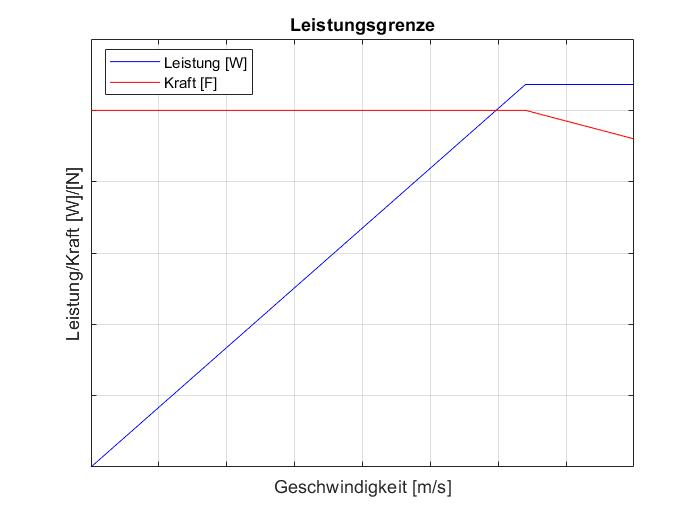
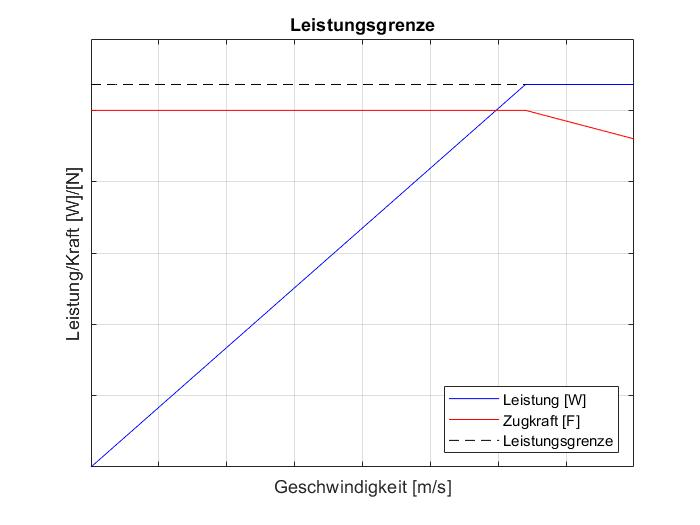
Anpassungen

Changed region(s): [[0.63, 0.7314, 0.9, 0.8533], [0.15, 0.0914, 0.36, 0.1829]]

diff --git a/sections/grundlagen.tex b/sections/grundlagen.tex
@@ -1,11 +1,11 @@
 \section{Grundlagen}\label{sec:Grundlagen}
-In diesem Kapitel wird anfänglich der grundlegende Ablauf des Schleppvorgang beschrieben und die Funktion der beiden Windentypen (Einzug- und Abrollwinde) genauer beschrieben. Weiter sind die für dieses Projekt grundlegenden Anforderungen aufgelistet, wobei eine detaillierte Übersicht im Anhang \ref{appsec:Anforderungen} ersichtlich ist.
+In diesem Kapitel wird der grundlegende Ablauf des Schleppvorgang beschrieben und die Funktion der beiden Windentypen (Einzug- und Abrollwinde) genauer beschrieben. Weiter sind die für dieses Projekt grundlegenden Anforderungen aufgelistet, wobei eine detaillierte Übersicht im Anhang \ref{appsec:Anforderungen} ersichtlich ist.
 
 %für den Bericht grundlegende Informationen beschrieben. Diese werden zum einen in Richtlinien unterteilt,welche hauptsächlich aus den gesetzlichen Bestimmungen bestehen. Zum anderen ist ein mathematischer Teil vorhanden, wobei die Berechnungen mathematische Formeln aufweisen auf welche in den nachfolgenden Kapiteln verwiesen wird. 
 
 
 \subsection{Schleppvorgang}\label{subsec:Schleppvorgang}
-Der Gleitsegelschleppvorgang kann trotz zwei unterschiedlichen Ausführungen (Einzug- und Abrollwinde) mit demselben Prinzip beschreiben. Der Pilot steht startbereit am Boden und ist über auslösbare Verbindungen an ein Seil angemacht. Sobald der Schleppvorgang startet, wird das Seil zwischen Winde und Pilot gestraft bis er eine Kraft in horizontaler Richtung erfährt. Er beginnt zu rennen wobei sich der Schirm über ihm aufrichtet. Sobald der Pilot eine genügend hohe Geschwindigkeit in Horizontalrichtung hat (in Bezug zum Wind), erfährt er eine Geschwindigkeit in Vertikalrichtung und hebt ab. Die dafür notwendige horizontal Geschwindigkeit ist abhängig vom Schirmtyp. Ein typischer Startvorgang ist in nachfolgender Abbildung gut ersichtlich. Es gilt zu erwähnen, dass der ersichtliche Schleppvorgang bei einem Gegenwind von 5m/s abgebildet ist. Bei einer Vorwärtsgeschwindigkeit von 5m/s erreicht somit der Pilot eine Horizontalgeschwindigkeit von 10m/s gegenüber Wind.
+Der Gleitsegelschleppvorgang kann trotz zwei unterschiedlichen Ausführungen (Einzug- und Abrollwinde) mit demselben Prinzip beschreiben. Der Pilot steht startbereit am Boden und ist über auslösbare Verbindungen an ein Seil angemacht. Sobald der Schleppvorgang startet, wird das Seil zwischen Winde und Pilot gestraft bis er eine Kraft in horizontaler Richtung erfährt. Er beginnt zu rennen, wobei sich der Schirm über ihm aufrichtet. Sobald der Pilot eine genügend hohe Geschwindigkeit in Horizontalrichtung hat (in Bezug zum Wind), erfährt er eine Geschwindigkeit in Vertikalrichtung und hebt ab. Die dafür notwendige horizontal Geschwindigkeit ist abhängig vom Schirmtyp. Ein typischer Startvorgang ist in nachfolgender Abbildung \ref{fig:Sicherheitsstart} gut ersichtlich. Es gilt zu erwähnen, dass der ersichtliche Schleppvorgang bei einem Gegenwind von 5m/s abgebildet ist. Bei einer Vorwärtsgeschwindigkeit von 5m/s erreicht somit der Pilot eine Horizontalgeschwindigkeit von 10m/s gegenüber Wind.
 
 \begin{figure}[H]
 	\begin{center}
@@ -15,7 +15,7 @@ Der Gleitsegelschleppvorgang kann trotz zwei unterschiedlichen Ausführungen (Ei
 	\end{center}
 \end{figure}
 
-Es ist gut ersichtlich, dass der Startvorgang in vier Bereiche unterteilt wird. Die erste Phase beinhaltet die Seilstraffung bis zum Zeitpunkt des Abheben des Piloten. Der zweite Bereich umfasst die kritischste Phase, da der Pilot nur eine geringe Distanz zum Boden vorweist und bei einem Trennvorgang schnell reagieren muss. Damit ein unvorhergesehener Trennvorgang vom Piloten kontrolliert werden kann, darf die Zugkraft am Seil 30\% der Nennzugkraft nicht überschreiten. Sobald eine Höhe von 20m erreicht wurde, wird der Zug des Seils auf 70\% der eingestellten Nennzugkraft erhöht. Ab einer Höhe von 50m kann auf 100\% erhöht werden wodurch der Pilot mit einem Winkel (gegenüber Grund) von rund $22^\circ$ steigt. Diese Phase hält solange an, bis der Pilot die gewünschte Höhe erreicht hat oder mangels Seillänge der Vorgang beendet werden muss. Die Zugkraft wird erneut reduziert, so dass der Zug am Piloten abnimmt und der Schirm sich wieder über den Piloten neigt. Bei einer Zugkraft von wiederum 30\% der Nennzugkraft trennt sich nach Zeichenabsprache mit dem Windenführer der Pilot vom Seil. Diese Flugkurve mit den entsprechenden Steigwinkeln des Piloten gegenüber Grund ($\beta$) und dem Winkel des Seils ($\gamma$) ist in nachfolgender Abbildung \ref{fig:HoehenverlaufSchlepp} ersichtlich. Hier wird anders als bei der vorherigen Grafik der Pilot von rechts nach links gezogen.
+In Abbildung \ref{fig:Sicherheitsstart} ist gut ersichtlich, dass der Startvorgang in vier Bereiche unterteilt wird. Die erste Phase beinhaltet die Seilstraffung bis zum Zeitpunkt des Abheben des Piloten. Der zweite Bereich umfasst die kritischste Phase, da der Pilot nur eine geringe Distanz zum Boden vorweist und bei einem Trennvorgang schnell reagieren muss. Damit ein unvorhergesehener Trennvorgang vom Piloten kontrolliert werden kann, darf die Zugkraft am Seil 30\% der Nennzugkraft nicht überschreiten. Sobald eine Höhe von 20m erreicht wurde, wird der Zug des Seils auf 70\% der eingestellten Nennzugkraft erhöht. Ab einer Höhe von 50m kann auf 100\% erhöht werden wodurch der Pilot mit einem Winkel (gegenüber Grund) von rund $22^\circ$ steigt. Diese Phase hält solange an, bis der Pilot die gewünschte Höhe erreicht hat oder mangels Seillänge der Vorgang beendet werden muss. Die Zugkraft wird erneut reduziert, so dass der Zug am Piloten abnimmt und der Schirm sich wieder über den Piloten neigt. Bei einer Zugkraft von wiederum 30\% der Nennzugkraft trennt sich nach Zeichenabsprache mit dem Windenführer der Pilot vom Seil. Diese Flugkurve mit den entsprechenden Steigwinkeln des Piloten gegenüber Grund ($\beta$) und dem Winkel des Seils ($\gamma$) ist in nachfolgender Abbildung \ref{fig:HoehenverlaufSchlepp} ersichtlich. Hier wird anders als bei der Abbildung \ref{fig:Sicherheitsstart} der Pilot von rechts nach links gezogen.
 
 
 \begin{figure}[H]
@@ -41,8 +41,8 @@ Die gesetzlichen Bestimmungen für die gesamte Seilwinde wurden bereits im Pflic
 
 Durch die elektrische Versorgung des Motors, unterliegt das Projekt der Norm der IEC (International Electrotechnical Commission). Damit die Richtlinien möglichst tief gehalten werden können, fiel der Entschied auf den Kleinspannungsbereich (Spannungsbereich \RM{1} nach IEC 60449), was einer Spannung $U_{DC}<120V_{DC}$ oder $U_{AC}<50V_{AC}$ entspricht. Dies bringt den Vorteil mit sich, dass keine für den Mensch gefährlichen Spannungen auftreten können, was geringere Vorschriften an Isolation, Berührungsschutz und Leitungsführung mit sich bringt.
 Die Anforderungen an den Betrieb der Winde gestalten sich durch nachfolgende Parameter. Die Zugkraft der Seilwinde (respektive des Seils) muss eine minimale Zugkraft von 600N erreichen und darf beim Einzelschlepp den Wert von $ 1000N $ nicht überschreiten. Werden zwei Personen gleichzeitig geschleppt (auch Doppelschlepp genannt), darf diese auf maximal $ 1300N $ erhöht werden. Die Zugkraft muss dem Windenführer stets bekannt sein und wird durch eine Kraftanzeige an einem Display erreicht.
-Weiter darf während des Schleppvorgangs eine maximale Welligkeit von $\pm 25N$ auftreten. Das bedeutet, dass ein Oszillierender Einzug mit der genannten Kraftamplitude erlaubt ist. Wird der Winde ein Drehmomentsollwert vorgegeben, so darf diese nicht mehr als $\pm 100N$ davon abweichen. Das bedeutet bei maximaler Zugkraft (im Einzelschlepp) dürfen Werte zwischen $ 900N $ und $ 1100N $ auftreten. Aus Sicherheitsgründen wird die maximale Einzugsgeschwindigkeit begrenzt. Da bei Nullwind eine Einzugsgeschwindigkeit von 10m/s für optimales Steigen sorgt und evt. leichte Rückenwinde während dem Schleppvorgang auftreten können, wurde die Geschwindigkeit des Seil auf maximal $ 12m/s $ gelegt.
+Weiter darf während des Schleppvorgangs eine maximale Welligkeit von $\pm 25N$ auftreten. Das bedeutet, dass ein Oszillierender Einzug mit der genannten Kraftamplitude erlaubt ist. Wird der Winde ein Drehmomentsollwert vorgegeben, so darf diese nicht mehr als $\pm 100N$ davon abweichen. Das bedeutet, bei maximaler Zugkraft (im Einzelschlepp) dürfen Werte zwischen $ 900N $ und $ 1100N $ auftreten. Aus Sicherheitsgründen wird die maximale Einzugsgeschwindigkeit begrenzt. Da bei Nullwind eine Einzugsgeschwindigkeit von 10m/s für optimales Steigen sorgt und evt. leichte Rückenwinde während dem Schleppvorgang auftreten können, wurde die Geschwindigkeit des Seil auf maximal $ 12m/s $ gelegt.
 Zur Sicherheit des Piloten, muss ein Schleppvorgang jederzeit abgebrochen werden können. Dies kann einerseits durch Leerlauf des Motors oder im schlimmsten Fall durch einen Kappvorgang des Seils erreicht werden. Neben der Kappvorrichtung müssen auch Vorseil, Schleppseil, Verbindungsteile und Reparaturstellen eine minimale Reissfestigkeit von > 4000N erreichen, so wie Sollbruchstellen mit einer Bruchlast von min. 1500N im Soloschlepp und min. 2000N im Doppelschlepp.
 
 
-Da der Motor primär von Batterien gespiessen wird und diese eine begrenzte Kapazität vorweisen, wurde ein batteriebetriebener Schleppvorgang von minimal fünf Startvorgänge definiert. Ein weiterer Betrieb wird durch einen Hilfsgenerator ermöglicht, welcher lediglich zur Unterstützung der Batterie dient und somit nicht die gesamte Leistung übernimmt. Die Batterien müssen zudem sowohl gegen Tiefen- als auch gegen Überladung geschützt werden.
+Da der Motor primär von Batterien gespiesen wird und diese eine begrenzte Kapazität vorweisen, wurde ein batteriebetriebener Schleppvorgang von minimal fünf Startvorgänge definiert. Ein weiterer Betrieb wird durch einen Hilfsgenerator ermöglicht, welcher lediglich zur Unterstützung der Batterie dient und somit nicht die gesamte Leistung übernimmt. Die Batterien müssen zudem sowohl gegen Tiefen- als auch gegen Überladung geschützt werden.

diff --git a/sections/validierung/Versuchsaufbau.tex b/sections/validierung/Versuchsaufbau.tex
@@ -21,7 +21,7 @@ Folgende Messgrössen sind in den Versuchen gemessen worden:
 	\item Die \textbf{Controller-Temperatur} wurde ebenfalls mit dem Computer und der mitgelieferten Software ausgewertet.
 \end{itemize}
 
-Wie auf dem Schema in Abbildung \ref{fig:Schema} ersichtlich, erfolgt die Stromversorgung des BLDC Motors über Variac, Transformatoren und Gleichrichter. Dieser \glqq komplizierte \grqq Aufbau war notwendig, da keine Stromquelle gefunden werden konnte, welche genügend Leistung (im Vergleich zur Nennleistung des BLDC) brachte. Da der Brushless DC Motor für den Betrieb eine konstante Spannung von 96V und unter Volllast ($\approx$15kW) Ströme bis über 160A benötigt, musste ein Aufbau wie im Schema ersichtlich gewählt werden. Dabei erfolgt die Energieversorgung durch das 400V-Stromnetz. Mithilfe des Variacs, welcher mit einer CEE-63A-Steckdose am Netz angeschlossen war, liess sich die Spannung im Zwischenstromkreis regeln. Der Variac ist für eine Ausgangsspannung zwischen 0-290V und einen maximalen Strom von 50A ausgelegt. Damit der BLDC-Motor seine Betriebsspannung von lediglich 96V und Ströme von deutlich über 100A erhält, wurde ein Transformator mit einem 1:3 Übersetzungsverhältnis nachgeschaltet. Dadurch konnte eine dreimal höhere Spannung am Variac eingestellt werden, wodurch sich der Strom um denselben Faktor verringert. Der Anschluss des Transformator erfolgte primärseitig und sekundärseitig in Dreieckschaltung und hat einen sekundären Maximalstrom von $95A_{AC}$ bei $127V_{AC}$. Die Gleichrichtung erfolgt mit einer B6-Brücke, welche für das Projekt aufgebaut wurde. Der Aufbau ist in Abbildung \ref{fig:B6} ersichtlich.
+Wie auf dem Schema in Abbildung \ref{fig:Schema} ersichtlich, erfolgt die Stromversorgung des BLDC Motors über Variac, Transformatoren und Gleichrichter. Dieser \glqq komplizierte \grqq Aufbau war notwendig, da keine Stromquelle gefunden werden konnte, welche genügend Leistung (im Vergleich zur Nennleistung des BLDC) brachte. Da der Brushless-DC-Motor für den Betrieb eine konstante Spannung von 96V und unter Volllast ($\approx$15kW) Ströme bis über 160A benötigt, musste ein Aufbau wie im Schema ersichtlich gewählt werden. Dabei erfolgt die Energieversorgung durch das 400V-Stromnetz. Mithilfe des Variacs, welcher mit einer CEE-63A-Steckdose am Netz angeschlossen war, liess sich die Spannung im Zwischenstromkreis regeln. Der Variac ist für eine Ausgangsspannung zwischen 0-290V und einen maximalen Strom von 50A ausgelegt. Damit der BLDC-Motor seine Betriebsspannung von lediglich 96V und Ströme von deutlich über 100A erhält, wurde ein Transformator mit einem 1:3 Übersetzungsverhältnis nachgeschaltet. Dadurch konnte eine dreimal höhere Spannung am Variac eingestellt werden, wodurch sich der Strom um denselben Faktor verringert. Der Anschluss des Transformator erfolgte primärseitig und sekundärseitig in Dreieckschaltung und hat einen sekundären Maximalstrom von $95A_{AC}$ bei $127V_{AC}$. Die Gleichrichtung erfolgt mit einer B6-Brücke, welche für das Projekt aufgebaut wurde. Der Aufbau ist in Abbildung \ref{fig:B6} ersichtlich.
 
 \begin{figure}[H]
 	\centering
@@ -65,16 +65,32 @@ $ I_{d} $\quad\quad 	Zwischenkreisstrom (DC-Seite)      \\
 Da der B6-Gleichrichter bei hoher Belastung einen grossen Stromrippel generieren, sind parallel zur Ansteuerung zwei Elektrolytkondensatoren (Elkos) eingebaut. Diese dienen zur Glättung der Gleichstromversorgung bei hohen Belastungen. Zusätzlich wurde im Zwischenstromkreis ein DC-Relais eingebaut, welches von der Ansteuerung selbst geschaltet werden kann. Tritt ein Fehlerfall auf, kann der Controller mithilfe des DC-Relais die Stromversorgung unterbrechen. Die Ansteuerung besitzt zudem eine Schmelzsicherung direkt nach der Einspeisung des +Pols.\\
 
 Der Drehmoment-Sollwert für die Ansteuerung wird mit einem Arduino-Controller erzeugt. Dabei wird der PWM-Ausgang mithilfe eines RC-Tiefpasses in ein Spannungssignal gewandelt. Zudem wird das Signal des Hallsensors über ein Schmitt-Trigger auf den Mikrocontroller geführt, damit die Geschwindigkeit geregelt werden kann.\\
-Der ASM-Motor, welcher die Last simulierte, hat ebenfalls eine Leistung von 11kW und ist starr mittels einer Kupplung mit dem BLDC-Motor gekopplet. Die Anordnung ist in Abbildung \ref{fig:MotorenLueftung} links dargestellt. Damit diese zwei Maschinen überhaupt miteinander gekoppelt werden konnten, ist zuerst die Welle des BLDC Motors (links) auf das Niveau der ASM (rechts) angehoben worden. Weiter waren einige Anpassungen an der Kupplung (Verbindung zwischen den Motorenwellen) getätigt werden. Da der DC-Motor über eine Welle mit Zollmass verfügt, musste die Öffnung einer Kupplung ausgebohrt worden. Weiter verfügt die ASM über keine Nut, weshalb die Befestigung der Kupplung mit zwei M8-Schrauben, welche auf die Motorwelle drücken, erfolgt. Diese zwei Gewinde sind ebenfalls vorgängig gebohrt werden. Für einen ausreichenden Berührungsschutz sorgt eine Plexiglasscheibe über der mechanischen Verbindung.
+Der ASM-Motor, welcher die Last simulierte, hat ebenfalls eine Leistung von 11kW und ist starr mittels einer Kupplung mit dem BLDC-Motor gekopplet. Die Anordnung ist in Abbildung \ref{fig:Motorenaufbau} dargestellt. Damit diese zwei Maschinen überhaupt miteinander gekoppelt werden konnten, ist zuerst die Welle des BLDC-Motors (links) auf das Niveau der ASM (rechts) angehoben worden. Weiter waren einige Anpassungen an der Kupplung (Verbindung zwischen den Motorenwellen) getätigt werden. Da der BLDC-Motor über eine Welle mit Zollmass verfügt, musste die Öffnung einer Kupplung ausgebohrt worden. Weiter verfügt die ASM über keine Nut, weshalb die Befestigung der Kupplung mit zwei M8-Schrauben, welche auf die Motorwelle drücken, erfolgt. Diese zwei Gewinde sind ebenfalls vorgängig gebohrt werden. Für einen ausreichenden Berührungsschutz sorgt eine Plexiglasscheibe über der mechanischen Verbindung.
 
-
-Leider verfügt der für die Winde gekaufte Motor nur über eine schlechte Eigenkühlung, wodurch zusätzliche Ventilatoren notwendig sind. Bei den Temperaturtests \ref{subsec:Temperatur} sind zur Kühlung externe 110mm Ventilatoren verwendet worden. In Abbildung \ref{fig:MotorenLueftung} (Grafik rechts), ist die Anordnung seitlich und hinter dem Motor zu sehen.
 \begin{figure}[H]
-	\begin{center}
-		\includegraphics[width=\linewidth]{Versuchsaufbau/MotorLueft_neu.png}
-		\caption[Motoren Aufbau und Motorenlüftung]{Motoren Aufbau (links) und Motorenlüftung (rechts)}
-		\label{fig:MotorenLueftung}
-	\end{center}
+	\centering
+	\includegraphics[width=100mm]{Versuchsaufbau/Motorenaufbau.jpg}
+	\caption{Koppung des BLDC-Motors mit der ASM-Maschine}
+	\label{fig:Motorenaufbau}
 \end{figure}
+
+Leider verfügt der für die Winde gekaufte Motor nur über eine schlechte Eigenkühlung, wodurch zusätzliche Ventilatoren notwendig sind. Bei den Temperaturtests \ref{subsec:Temperatur} sind zur Kühlung externe 110mm Ventilatoren verwendet worden. In Abbildung \ref{fig:Motorenlueftung}, ist die Anordnung seitlich und hinter dem Motor zu sehen.
+
+
+
+\begin{figure}[H]
+	\centering
+	\includegraphics[width=100mm]{Versuchsaufbau/Motorenlueftung.png}
+	\caption{BLDC-Motor mit zusätzlicher Lüftung}
+	\label{fig:Motorenlueftung}
+\end{figure}
+
+%\begin{figure}[H]
+%	\begin{center}
+%		\includegraphics[width=\linewidth]{Versuchsaufbau/MotorLueft_neu.png}
+%		\caption[Motoren Aufbau und Motorenlüftung]{Motoren Aufbau (links) und Motorenlüftung (rechts)}
+%		\label{fig:MotorenLueftung}
+%	\end{center}
+%\end{figure}
 
 Damit überhaupt Leistungsversuche möglich sind, muss neben dem Gleichstrommotor auch die ASM angesteuert werden. Hierfür dient ein Frequenzumrichter mit integrierter Netzschaltung welche ebenfalls ans 400V-Stromnetz angeschlossen ist. Während der BLDC-Motor eine Drehmoment-Ansteuerung verfügt wurde der ASM-Motor über die Drehzahl geregelt, welche wiederum von der Frequenz abhängig ist. Die Frequenz der ASM lässt sich über ein Potentiometer regeln.

diff --git a/sections/einleitung.tex b/sections/einleitung.tex
@@ -1,9 +1,9 @@
 \section{Einleitung}
-Vor über 50 Jahren stürzten Waghalsige mit den ersten Gleitschirmen den Hang hinunter. Die Technologie machte etliche Fortschritte, doch musste stets an einem Berghang gestartet werden. Obwohl die Schweiz über hohe Berge verfügt und dementsprechend viele Gleitschirmpiloten hat, gibt es gerade im nördlichen Teil der Schweiz, aufgrund niedriger und bewaldeter Hügel, praktisch keine Startmöglichkeiten. Um dem entgegenzuwirken, wurden sogenannte Abroll- und Einzugswinden entwickelt, welche einen Start in flachem Gelände ermöglichen. Da diese Technik bereits länger existiert, und die meisten Varianten auf einer Lösung mit Verbrennungsmotoren beruht, gibt es kaum elektrisch betriebene Winden. Dank des technischen Fortschritts von Akkumulatoren sind in praktisch jedem Bereich elektrische Anwendungen möglich. Eine Schleppwinde mit Elektromotor und elektrischer Energieversorgung hat diverse Vorteile wie beispielsweise ein geräuscharmer Betrieb, keine CO$_{2}$ Emissionen, einen hohen Wirkungsgrad und eine bidirektionalen Anwendung. Letzterer Punkt ermöglicht den Betrieb so wohl in Vorwärtsrichtung (als Motor) als auch in Rückwärtsrichtung (als Generator). Dies erlaubt, für den Abrollwinden- und Einzugswindenbetrieb die selbe Winde zu verwenden, was bis zum jetzigen Zeitpunkt absolut neuartig ist. 
+Vor über 50 Jahren stürzten Waghalsige mit den ersten Gleitschirmen den Hang hinunter. Die Technologie machte etliche Fortschritte, doch musste stets an einem Berghang gestartet werden. Obwohl die Schweiz über hohe Berge verfügt und dementsprechend viele Gleitschirmpiloten hat, gibt es gerade im nördlichen Teil der Schweiz, aufgrund niedriger und bewaldeter Hügel, praktisch keine Startmöglichkeiten. Um dem entgegenzuwirken, wurden sogenannte Abroll- und Einzugswinden entwickelt, welche einen Start in flachem Gelände ermöglichen. Da diese Technik bereits länger existiert, und die meisten Varianten auf einer Lösung mit Verbrennungsmotoren beruht, gibt es kaum elektrisch betriebene Winden. Dank des technischen Fortschritts von Akkumulatoren sind in praktisch jedem Bereich elektrische Anwendungen möglich. Eine Schleppwinde mit Elektromotor und elektrischer Energieversorgung hat diverse Vorteile wie beispielsweise ein geräuscharmer Betrieb, keine CO$_{2}$ Emissionen, einen hohen Wirkungsgrad und eine bidirektionalen Anwendung. Letzterer Punkt ermöglicht den Betrieb sowohl in Vorwärtsrichtung (als Motor) als auch in Rückwärtsrichtung (als Generator). Dies erlaubt, für den Abrollwinden- und Einzugswindenbetrieb dieselbe Winde zu verwenden, was bis zum jetzigen Zeitpunkt absolut neuartig ist. 
 Ziel der vorliegenden Arbeit ist es, das Gleitschirmfliegen im Flachland zu revolutionieren und dabei die Umwelt nicht ausser Acht zu lassen. Genau für diesen Zweck wird in diesem Projekt eine ebensolche elektrische Winde entwickelt und in Form eines Prototypen realisiert und getestet.
 
 Damit am Ende des Projektes ein reibungsloser Windenbetrieb garantiert werden kann, sind Anforderungen an das gesamte System notwendig. Da der Windenschlepp in der Schweiz nicht sehr verbreitet ist, sind verglichen mit Deutschland praktisch keine Vorschriften vorhanden. Aus diesem Grund sind die Anforderungen unserer Winde an die Richtlinien des DHV (Deutscher Hängegleiterverband) angelehnt.
-Damit der Pilot möglichst sicher in die Luft gelangt, ist neben einer maximalen Einzugsgeschwindigkeit des Seils, auch eine minimale und maximale Zugkraft am Seil notwendig, welche abhängig vom Körpergewicht des Piloten vorgängig eingestellt werden kann. Da der Schleppvorgang dynamisch ist und sich die Zugkraft am Seil je nach Luftschicht ändern kann, ist eine Regelung der Zugkraft zwingend notwendig. Weiter gilt es die Festigkeit aller mechanischen Komponenten zu beachten und Elemente wie Kappvorrichtung und Sollbruchstellen zu berücksichtigen. Die gesamte Energieversorgung des Systems erfolgt elektrisch und beruht primär auf Batteriebetrieb. Sollte der Energiespeicher erschöpft sein, dient ein externer Generator als Lade- und Stützeinheit der Batterie und übernimmt lediglich einen Teil der notwendigen Leistung.
+Damit der Pilot möglichst sicher in die Luft gelangt, ist neben einer maximalen Einzugsgeschwindigkeit des Seils auch eine minimale und maximale Zugkraft am Seil notwendig, welche abhängig vom Körpergewicht des Piloten vorgängig eingestellt werden kann. Da der Schleppvorgang dynamisch ist und sich die Zugkraft am Seil je nach Luftschicht ändern kann, ist eine Regelung der Zugkraft zwingend notwendig. Weiter gilt es die Festigkeit aller mechanischen Komponenten zu beachten und Elemente wie Kappvorrichtung und Sollbruchstellen zu berücksichtigen. Die gesamte Energieversorgung des Systems erfolgt elektrisch und beruht primär auf Batteriebetrieb. Sollte der Energiespeicher erschöpft sein, dient ein externer Generator als Lade- und Stützeinheit der Batterie und übernimmt lediglich einen Teil der notwendigen Leistung.
 
 In diesem Projekt wurden zuerst die rechtlichen Rahmenbedingungen abgeklärt, damit darauf basierend die Anforderungen an das Produkt eruiert werden konnten. Ein Pflichtenheft \cite{TechPflichtenheft}, welches die Anforderungen (Anhang \ref{appsec:Anforderungen}) an das Produkt definiert, wurde in enger Zusammenarbeit mit dem Projektteam des mechanischen Teils erarbeitet. Nachdem die Anforderungen an den Motor spezifiziert werden konnten, wurde dieser beschafft und auf \glqq Herz und Niere\grqq\space getestet.
 

diff --git a/sections/validierung/Fazit.tex b/sections/validierung/Fazit.tex
@@ -12,4 +12,4 @@ Bei den Spannungsversuche hat sich gezeigt, dass die Versorgungsspannung in eine
 Diese Leistungsgrenze ist abhängig von der Energieversorgung. Da diese mit Batterien realisiert wird, ist der Innenwiderstand der Batterie ein wichtiger Faktor. Zudem hat der Ladezustand einen Einfluss darauf, da die Spannung der Batterie beim entladen dieser abnimmt.\\
 Bei einer stabilen Spannungsquelle war anhand des Drehmoment/Leistungs-Versuch ersichtlich, dass der Motor die erforderliche Leistung erbringen kann und dass die Kraftregelung der Ansteuerung genügend präzise für die geplante Anwendung ist. Einzig im Leerlauf bei geringen Drehzahlen ist die Geschwindigkeitsregelung schwierig.\\
 Die Temperatur-Versuche haben zudem aufgezeigt, dass sowohl der Motor als auch die Ansteuerung gekühlt werden müssen, da diese sonst überhitzen. Vor allem im Abrollbetrieb, wenn ein höherer Intervall erreicht werden kann, muss der Motor gut gekühlt werden.\\
-Anhand der Versuche konnte bewiesen werden, dass der Motor alle Anforderungen für den Einzugsbetrieb erfüllt. Die effektive maximale Leistung hängt jedoch von der Energieversorgung ab.
+Anhand der Versuche konnte bewiesen werden, dass der Motor alle Anforderungen für den Einzugsbetrieb erfüllt. Die effektive maximale Leistung hängt jedoch von der Energieversorgung ab. Da diese wiederum vom Innenwiderstand, Batterietyp und dem Ladezustand abhängt, kann eine definitive Aussage über die max. Leistung erst am definitiven Ausbau gemacht werden.

diff --git a/sections/validierung/DrehmomentDrehzahl.tex b/sections/validierung/DrehmomentDrehzahl.tex
@@ -1,3 +1,4 @@
+\newpage
 \subsection{Drehmoment bei variabler Drehzahl}\label{subsec:DrehmomentDrehzahl}
 Um zu beweisen, dass der Motor die erforderliche Leistung erbringt, wird das Drehmoment in Abhängigkeit der Drehzahl untersucht.
 Die Bedingungen, mit welchen der Versuch durchgeführt wurde, können der Tabelle \ref{tab:Drehmoment/Drehzahl} entnommen werden.
@@ -17,8 +18,6 @@ Controller-Temperatur   & vernachlässigt &   -    \\
 \end{tabular}
 \caption{Versuchsbedingungen Drehmoment/Drehzahl-Versuch}\label{tab:Drehmoment/Drehzahl}
 \end{table}
-
-\newpage
 
 Das Drehmoment an der Welle des BLDC-Motors wird mit der Formel \ref{eq:LeistungDrehmoment} in Abhängigkiet zur Leistung und der Drehzahl des Motors ermittelt. Die daraus ermittelte Kurve ist in der Abbildung \ref{fig:drehmoment/drehzahl} (blaue Kurve) ersichtlich. Da die asynchrone Maschine ebenfalls nicht ideal arbeitet und deswegen Verluste aufweist, wird bei dieser ein Wirkungsgrad von 90\% angenommen (rote Kurve).
 

diff --git a/sections/validierung.tex b/sections/validierung.tex
@@ -14,4 +14,3 @@ Alle Messdaten sind im Anhang \ref{appsec:Messdaten} ersichtlich.
 \input{sections/validierung/DrehzahlSpannung}
 \input{sections/validierung/Quantitativ}
 \input{sections/validierung/Fazit}
-
